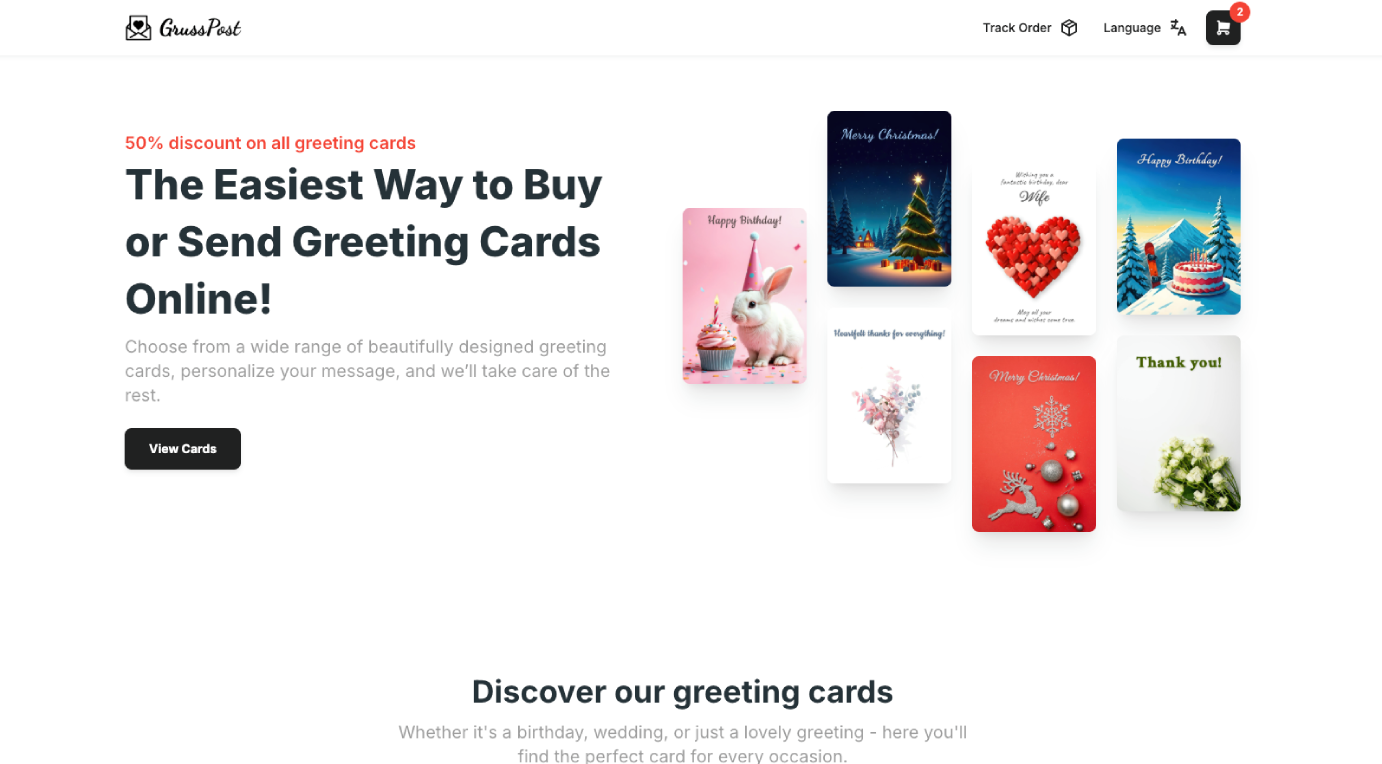
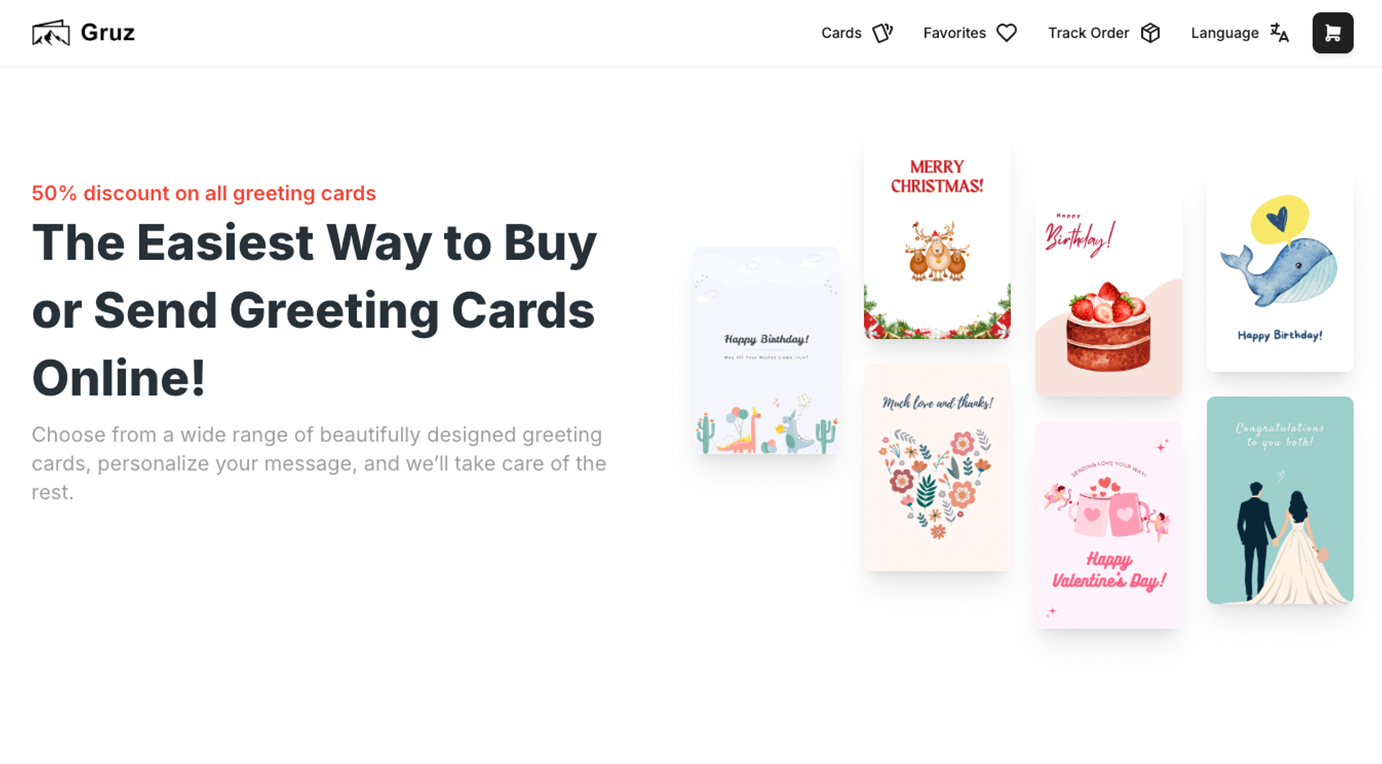
Latest

diff --git a/app.js b/app.js
@@ -205,7 +205,7 @@ var projects = [{
 {
   title: "Personal & Other Projects",
   items: [{
-    soon: true,
+    new: true,
     name: "Gruz",
     technologies: "NextJs | Tailwind",
     image: "grusspost.png",
@@ -468,7 +468,7 @@ function Header(props) {
   return React.createElement(
     "div",
     {
-      className: "max-w-screen-2xl mx-auto sticky z-50 top-0 transition-all duration-300 \n      " + (showBg ? bgSecondary : null) + " \n      " + (!show ? "opacity-0 -translate-y-4" : null)
+      className: "max-w-screen-2xl mx-auto z-50 top-0 transition-all duration-300 \n      " + (showBg ? bgSecondary : null) + " \n      " + (!show ? "opacity-0 -translate-y-4" : null)
     },
     React.createElement(
       "div",
@@ -544,7 +544,7 @@ function Hero(props) {
         React.createElement(
           "div",
           { className: "font-medium md:text-lg text-white/80" },
-          "Hi, I'm Thanusan"
+          "Hi, I'm Balathanusan"
         ),
         React.createElement(
           "div",
@@ -1033,11 +1033,19 @@ function Footer(props) {
 }
 
 function App() {
-  console.log("%cI'm not a great programmer; I'm just a good programmer with great habits (of Googling).", ["font-size: 12px", "font-family: monospace", "background: #00f9d0", "display: inline-block", "color: black", "padding: 8px 20px", "margin: 8px 19px", "border: 1px dashed;"].join(";"));
+  console.log("%cI'm not a great programmer; I'm just a good programmer with great skills (of asking AI).", ["font-size: 12px", "font-family: monospace", "background: #00f9d0", "display: inline-block", "color: black", "padding: 8px 20px", "margin: 8px 19px", "border: 1px dashed;"].join(";"));
 
   return React.createElement(
     "div",
     { className: bgPrimary + " text-white" },
+    React.createElement(
+      "a",
+      {
+        href: "https://gruz.ch",
+        className: "sticky py-1 top-0 w-full bg-red-500 z-50 block text-center"
+      },
+      "New launch - www.gruz.ch (view \u2192)"
+    ),
     React.createElement(Header, null),
     React.createElement(Hero, null),
     React.createElement(

diff --git a/src/app.jsx b/src/app.jsx
@@ -255,7 +255,7 @@ const projects = [
     title: "Personal & Other Projects",
     items: [
       {
-        soon: true,
+        new: true,
         name: "Gruz",
         technologies: "NextJs | Tailwind",
         image: "grusspost.png",
@@ -591,7 +591,7 @@ function Header(props) {
   }
   return (
     <div
-      className={`max-w-screen-2xl mx-auto sticky z-50 top-0 transition-all duration-300 
+      className={`max-w-screen-2xl mx-auto z-50 top-0 transition-all duration-300 
       ${showBg ? bgSecondary : null} 
       ${!show ? "opacity-0 -translate-y-4" : null}`}
     >
@@ -644,7 +644,7 @@ function Hero(props) {
       <div className="flex-1 flex items-center">
         <div className="w-full">
           <div className="font-medium md:text-lg text-white/80">
-            Hi, I'm Thanusan
+            Hi, I'm Balathanusan
           </div>
           <div className="font-bold text-3xl md:text-5xl mt-2">
             Software Developer
@@ -1039,7 +1039,7 @@ function Footer(props) {
 
 function App() {
   console.log(
-    "%cI'm not a great programmer; I'm just a good programmer with great habits (of Googling).",
+    "%cI'm not a great programmer; I'm just a good programmer with great skills (of asking AI).",
     [
       "font-size: 12px",
       "font-family: monospace",
@@ -1054,6 +1054,12 @@ function App() {
 
   return (
     <div className={`${bgPrimary} text-white`}>
+      <a
+        href="https://gruz.ch"
+        className="sticky py-1 top-0 w-full bg-red-500 z-50 block text-center"
+      >
+        New launch - www.gruz.ch (view →)
+      </a>
       <Header></Header>
       <Hero></Hero>
       <div className="space-y-24 md:space-y-32">

diff --git a/app.css b/app.css
@@ -836,6 +836,11 @@ video {
   background-color: rgb(22 25 30 / var(--tw-bg-opacity));
 }
 
+.bg-red-500 {
+  --tw-bg-opacity: 1;
+  background-color: rgb(239 68 68 / var(--tw-bg-opacity));
+}
+
 .object-cover {
   -o-object-fit: cover;
      object-fit: cover;
@@ -897,6 +902,16 @@ video {
 .py-4 {
   padding-top: 1rem;
   padding-bottom: 1rem;
+}
+
+.py-2 {
+  padding-top: 0.5rem;
+  padding-bottom: 0.5rem;
+}
+
+.py-1 {
+  padding-top: 0.25rem;
+  padding-bottom: 0.25rem;
 }
 
 .pt-3 {
